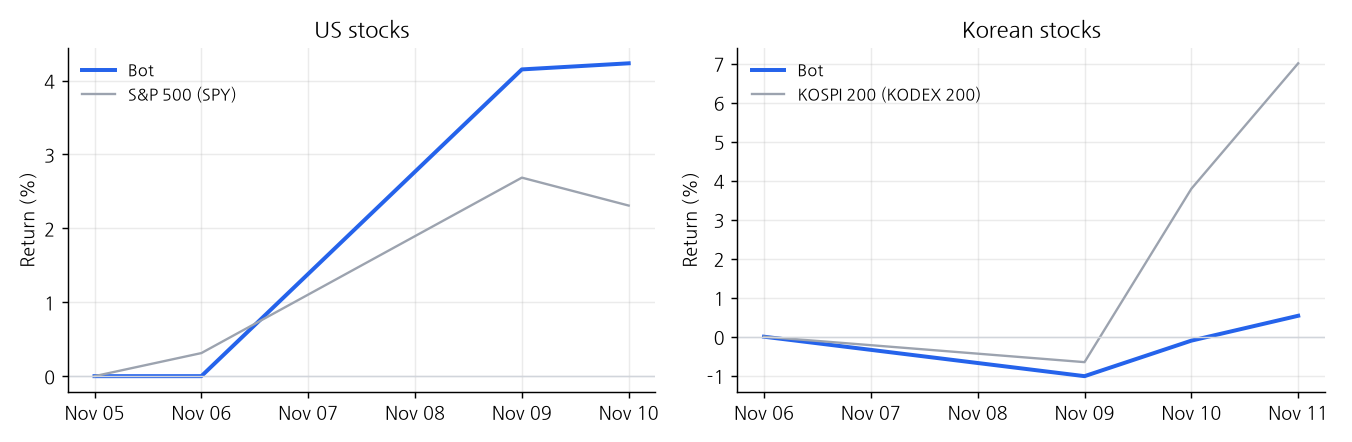
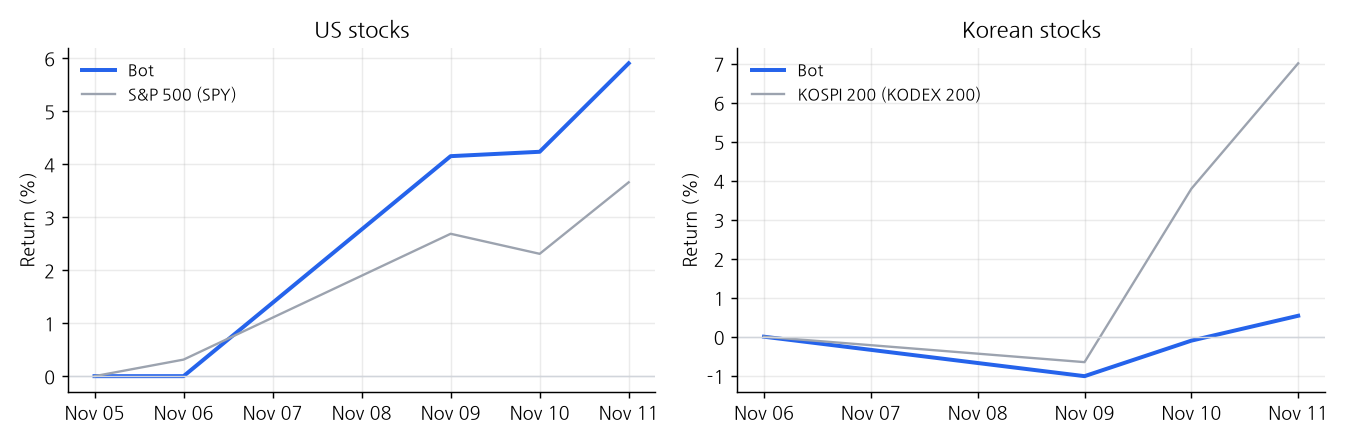
KRW 100k challenge 2026-11-11: 100,630 KRW

diff --git a/README.md b/README.md
@@ -38,13 +38,13 @@
 | | |
 |---|---|
 | 💰 Account value | **₩100,630** (≈$75) |
-| 🏦 Total deposited | ₩99,570 (≈$75) |
+| 🏦 Total deposited | ₩99,570 (≈$74) |
 | 📈 Profit / loss | **+₩1,060** (≈$1) (+1.06% of deposits) |
 | ⚙ Bot strategy return (deposits excluded) | +1.06% |
 | 📊 Just holding the S&P 500 ETF, same period | +1.18% |
-| 🆚 Same deposits, just holding the S&P 500 ETF | ₩100,747 (≈$76) |
+| 🆚 Same deposits, just holding the S&P 500 ETF | ₩100,747 (≈$75) |
 | 🧭 Market regime | 🟢 BULL — S&P 500 above its 200-day average → 100% S&P 500 ETF |
-| 💱 USD/KRW used above | **1,334.11** (market close 2026-11-11, updated 2026-11-11 16:00 KST) |
+| 💱 USD/KRW used above | **1,336.56** (market close 2026-11-11, updated 2026-11-12 07:30 KST) |
 
 ![USD/KRW live](https://img.shields.io/badge/dynamic/json?url=https%3A%2F%2Fopen.er-api.com%2Fv6%2Flatest%2FUSD&query=%24.rates.KRW&label=USD%2FKRW%20now&prefix=%E2%82%A9&color=0a7&cacheSeconds=3600)
 
@@ -74,7 +74,7 @@
 
 If you enjoy following this, you can [sponsor me](https://github.com/sponsors/chomuscleguy). Donations are **support for the project only** — they are not invested in this account and carry no returns, shares or refunds.
 
-<sub>Not investment advice. Personal experiment. Last updated 2026-11-11 16:00 KST.</sub>
+<sub>Not investment advice. Personal experiment. Last updated 2026-11-12 07:30 KST.</sub>
 
 <!-- CHALLENGE:END -->
 
@@ -86,16 +86,16 @@ If you enjoy following this, you can [sponsor me](https://github.com/sponsors/ch
 
 | Strategy | Since | Bot return | Benchmark | vs benchmark | Regime |
 |---|---|---|---|---|---|
-| **🇺🇸 US stocks** — 10 high-conviction stocks from top investors' 13F filings | 2026-11-05 | **+4.23%** | S&P 500 (SPY) +2.31% | +1.92% | 🟢 BULL |
+| **🇺🇸 US stocks** — 10 high-conviction stocks from top investors' 13F filings | 2026-11-05 | **+5.90%** | S&P 500 (SPY) +3.66% | +2.24% | 🟢 BULL |
 | **🇰🇷 Korean stocks** — Top 10 holdings of Korea's National Pension Service (5%+ stakes) | 2026-11-06 | **+0.54%** | KOSPI 200 (KODEX 200) +7.01% | -6.47% | 🔴 BEAR |
 
 ![Paper-trading returns](paper/returns.png)
 
-- 🇺🇸 US stocks top holdings: AMD 11%, TSLA 10%, AVGO 10%, AMZN 10%, META 10%, AAPL 10% · cash 2%
+- 🇺🇸 US stocks top holdings: AMD 12%, AVGO 10%, TSLA 10%, AAPL 10%, AMZN 10%, LLY 10% · cash 2%
 - 🇰🇷 Korean stocks top holdings: KODEX 단기채권 49%, 하나금융지주 5%, 신한지주 5%, 현대모비스 5%, 삼성SDI 5% · cash 14%
 
 Full dashboard: [portfolio-dashboard](https://github.com/chomuscleguy/portfolio-dashboard)
 
-<sub>Simulated account, returns only (no amounts). Not investment advice. Updated 2026-11-11 16:00 KST.</sub>
+<sub>Simulated account, returns only (no amounts). Not investment advice. Updated 2026-11-12 07:30 KST.</sub>
 
 <!-- PAPER:END -->
